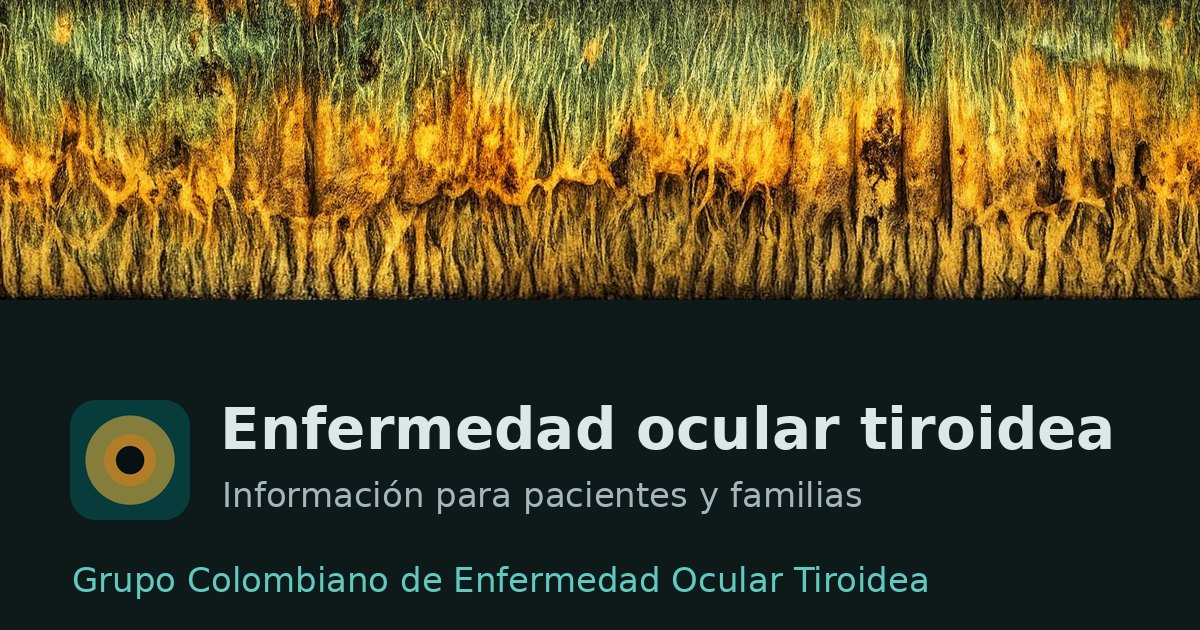
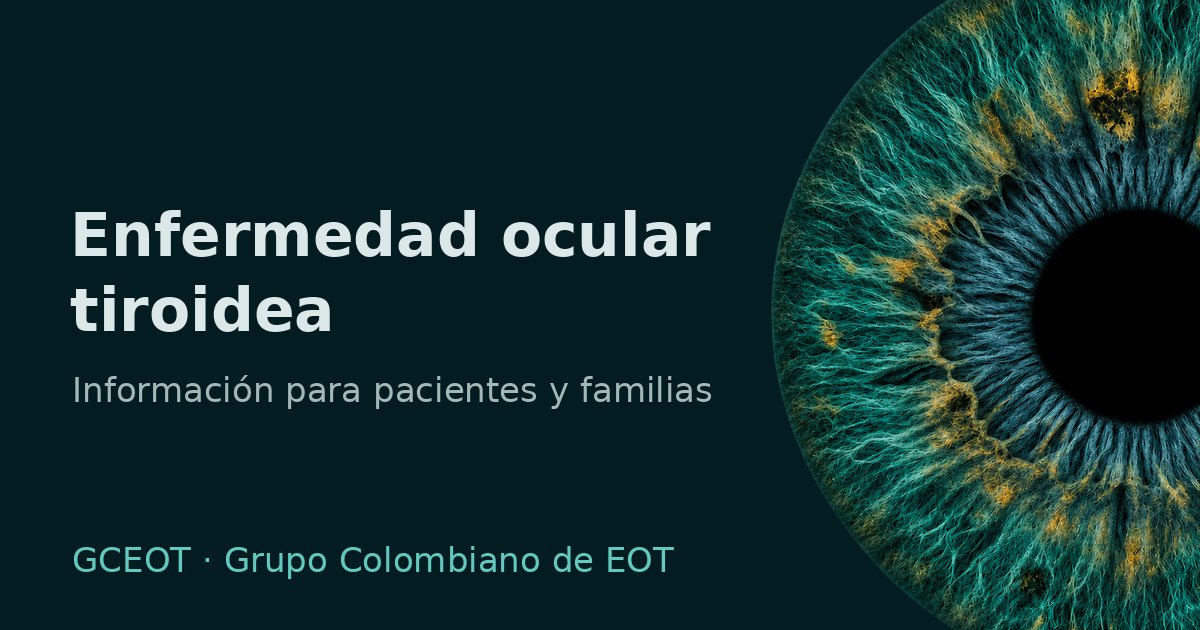
Identidad unificada con el iris verde azulado
Se retira la franja del iris; el sitio de pacientes usa el mismo iris
que el de profesionales; icono recoloreado con anillo dorado; imagen
para compartir rehecha sobre el fondo oscuro.

Claude-Session: https://claude.ai/code/session_019V2PUFQPJAG2oeGmxQuna3

diff --git a/index.html b/index.html
@@ -11,8 +11,8 @@
   <meta property="og:image" content="https://festinalente-cc.github.io/eot-pacientes/assets/img/compartir.jpg">
   <meta name="twitter:card" content="summary_large_image">
   <link rel="icon" href="./assets/img/favicon.svg" type="image/svg+xml">
-  <script src="./assets/js/theme.js?v=7"></script>
-  <link rel="stylesheet" href="./assets/css/styles.css?v=7">
+  <script src="./assets/js/theme.js?v=8"></script>
+  <link rel="stylesheet" href="./assets/css/styles.css?v=8">
 </head>
 <body data-root="./" data-page="home">
   <div id="site-header"></div>
@@ -25,7 +25,7 @@
         <a class="btn btn-primary" href="que-es/">Conocer la enfermedad</a>
         <a class="btn btn-ghost" href="consulta/">Preparar mi consulta</a>
       </div>
-      </div><img class="hero-iris" src="assets/img/iris.webp" alt="" width="720" height="720"></div>
+      </div><img class="hero-iris" src="assets/img/iris.webp" alt="" width="520" height="520"></div>
       <div class="emergency">
         <h2>Acuda a urgencias hoy si nota</h2>
         <ul>
@@ -46,6 +46,6 @@
     </div></section>
   </main>
   <div id="site-footer"></div>
-  <script type="module" src="./assets/js/site.js?v=7"></script>
+  <script type="module" src="./assets/js/site.js?v=8"></script>
 </body>
 </html>

diff --git a/acerca/index.html b/acerca/index.html
@@ -6,14 +6,13 @@
   <meta name="robots" content="noindex, nofollow">
   <title>Acerca de este sitio · Enfermedad ocular tiroidea</title>
   <link rel="icon" href="../assets/img/favicon.svg" type="image/svg+xml">
-  <script src="../assets/js/theme.js?v=7"></script>
-  <link rel="stylesheet" href="../assets/css/styles.css?v=7">
+  <script src="../assets/js/theme.js?v=8"></script>
+  <link rel="stylesheet" href="../assets/css/styles.css?v=8">
 </head>
 <body data-root="../" data-page="acerca">
   <div id="site-header"></div>
   <main id="main">
     <div class="container">
-      <img class="iris-band" src="../assets/img/iris-franja.webp" alt="" width="1600" height="280">
       <div class="page-head"><h1>Acerca de este sitio</h1><span class="draft-bar">Borrador pendiente de revisión clínica</span></div>
       <h2>Quiénes somos</h2>
       <p>El Grupo Colombiano de Enfermedad Ocular Tiroidea (GCEOT) reúne especialistas de varias ciudades de Colombia que trabajan para mejorar la atención de esta enfermedad.</p>
@@ -28,6 +27,6 @@
     </div>
   </main>
   <div id="site-footer"></div>
-  <script type="module" src="../assets/js/site.js?v=7"></script>
+  <script type="module" src="../assets/js/site.js?v=8"></script>
 </body>
 </html>

diff --git a/assets/js/site.js b/assets/js/site.js
@@ -8,7 +8,7 @@ const NAV = [
   ['donde', 'Dónde consultar', 'donde/'],
   ['acerca', 'Acerca de', 'acerca/'],
 ];
-const logo = '<svg viewBox="0 0 64 64" aria-hidden="true"><rect width="64" height="64" rx="14" fill="#083c3c"/><circle cx="32" cy="32" r="23.5" fill="#837d3b"/><circle cx="32" cy="32" r="13.75" fill="#b17c28"/><circle cx="32" cy="32" r="7.5" fill="#081011"/></svg>';
+const logo = '<svg viewBox="0 0 64 64" aria-hidden="true"><rect width="64" height="64" rx="14" fill="#06313a"/><circle cx="32" cy="32" r="23.5" fill="#22998f"/><circle cx="32" cy="32" r="14" fill="#2f6577" stroke="#e8b23a" stroke-width="2.5"/><circle cx="32" cy="32" r="7.5" fill="#05090a"/></svg>';
 document.getElementById('site-header').innerHTML = `
   <div class="preview">Versión preliminar en revisión. No difundir.</div>
   <header class="site-header"><div class="container">

diff --git a/consulta/index.html b/consulta/index.html
@@ -6,8 +6,8 @@
   <meta name="robots" content="noindex, nofollow">
   <title>Prepare su consulta · Enfermedad ocular tiroidea</title>
   <link rel="icon" href="../assets/img/favicon.svg" type="image/svg+xml">
-  <script src="../assets/js/theme.js?v=7"></script>
-  <link rel="stylesheet" href="../assets/css/styles.css?v=7">
+  <script src="../assets/js/theme.js?v=8"></script>
+  <link rel="stylesheet" href="../assets/css/styles.css?v=8">
 </head>
 <body data-root="../" data-page="consulta">
   <div id="site-header"></div>
@@ -62,6 +62,6 @@
     <script>document.getElementById('imprimir').addEventListener('click', function () { window.print(); });</script>
   </main>
   <div id="site-footer"></div>
-  <script type="module" src="../assets/js/site.js?v=7"></script>
+  <script type="module" src="../assets/js/site.js?v=8"></script>
 </body>
 </html>

diff --git a/que-es/index.html b/que-es/index.html
@@ -6,8 +6,8 @@
   <meta name="robots" content="noindex, nofollow">
   <title>Qué es la enfermedad ocular tiroidea · Enfermedad ocular tiroidea</title>
   <link rel="icon" href="../assets/img/favicon.svg" type="image/svg+xml">
-  <script src="../assets/js/theme.js?v=7"></script>
-  <link rel="stylesheet" href="../assets/css/styles.css?v=7">
+  <script src="../assets/js/theme.js?v=8"></script>
+  <link rel="stylesheet" href="../assets/css/styles.css?v=8">
 </head>
 <body data-root="../" data-page="que-es">
   <div id="site-header"></div>
@@ -63,6 +63,6 @@
     </div>
   </main>
   <div id="site-footer"></div>
-  <script type="module" src="../assets/js/site.js?v=7"></script>
+  <script type="module" src="../assets/js/site.js?v=8"></script>
 </body>
 </html>

diff --git a/senales/index.html b/senales/index.html
@@ -6,8 +6,8 @@
   <meta name="robots" content="noindex, nofollow">
   <title>Señales de alarma · Enfermedad ocular tiroidea</title>
   <link rel="icon" href="../assets/img/favicon.svg" type="image/svg+xml">
-  <script src="../assets/js/theme.js?v=7"></script>
-  <link rel="stylesheet" href="../assets/css/styles.css?v=7">
+  <script src="../assets/js/theme.js?v=8"></script>
+  <link rel="stylesheet" href="../assets/css/styles.css?v=8">
 </head>
 <body data-root="../" data-page="senales">
   <div id="site-header"></div>
@@ -40,6 +40,6 @@
     </div>
   </main>
   <div id="site-footer"></div>
-  <script type="module" src="../assets/js/site.js?v=7"></script>
+  <script type="module" src="../assets/js/site.js?v=8"></script>
 </body>
 </html>

diff --git a/donde/index.html b/donde/index.html
@@ -6,8 +6,8 @@
   <meta name="robots" content="noindex, nofollow">
   <title>Dónde consultar · Enfermedad ocular tiroidea</title>
   <link rel="icon" href="../assets/img/favicon.svg" type="image/svg+xml">
-  <script src="../assets/js/theme.js?v=7"></script>
-  <link rel="stylesheet" href="../assets/css/styles.css?v=7">
+  <script src="../assets/js/theme.js?v=8"></script>
+  <link rel="stylesheet" href="../assets/css/styles.css?v=8">
 </head>
 <body data-root="../" data-page="donde">
   <div id="site-header"></div>
@@ -31,6 +31,6 @@
     </div>
   </main>
   <div id="site-footer"></div>
-  <script type="module" src="../assets/js/site.js?v=7"></script>
+  <script type="module" src="../assets/js/site.js?v=8"></script>
 </body>
 </html>
